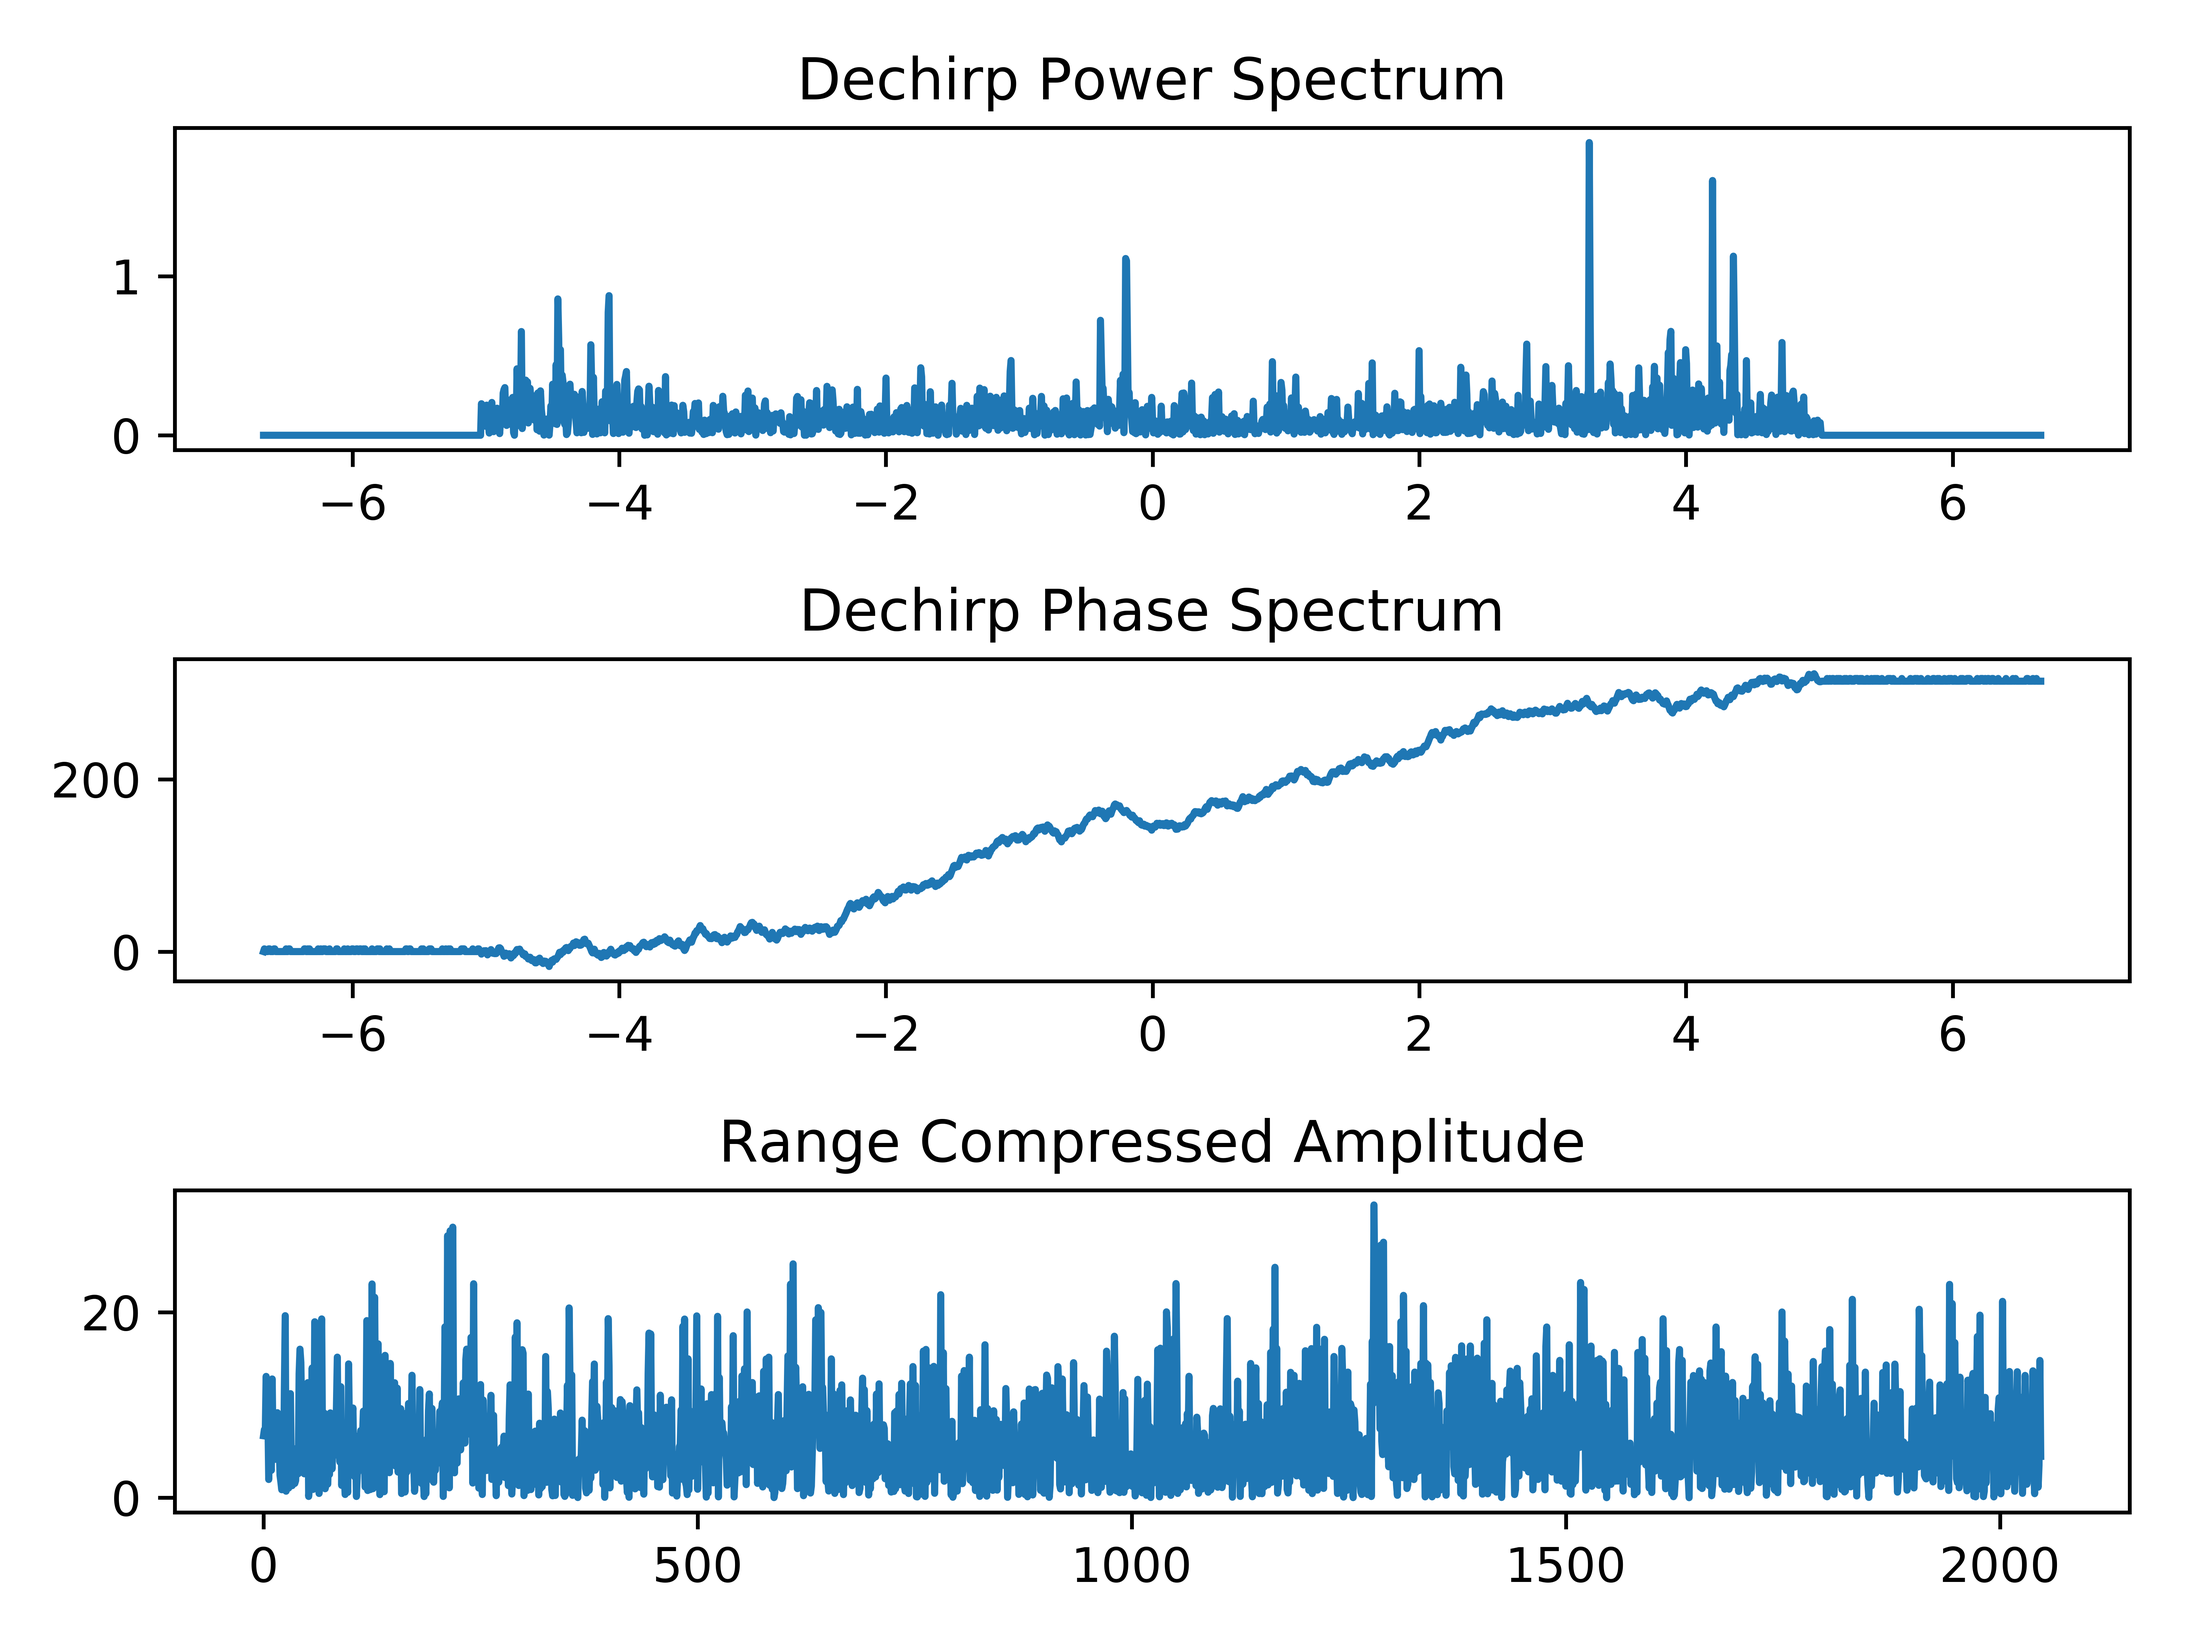
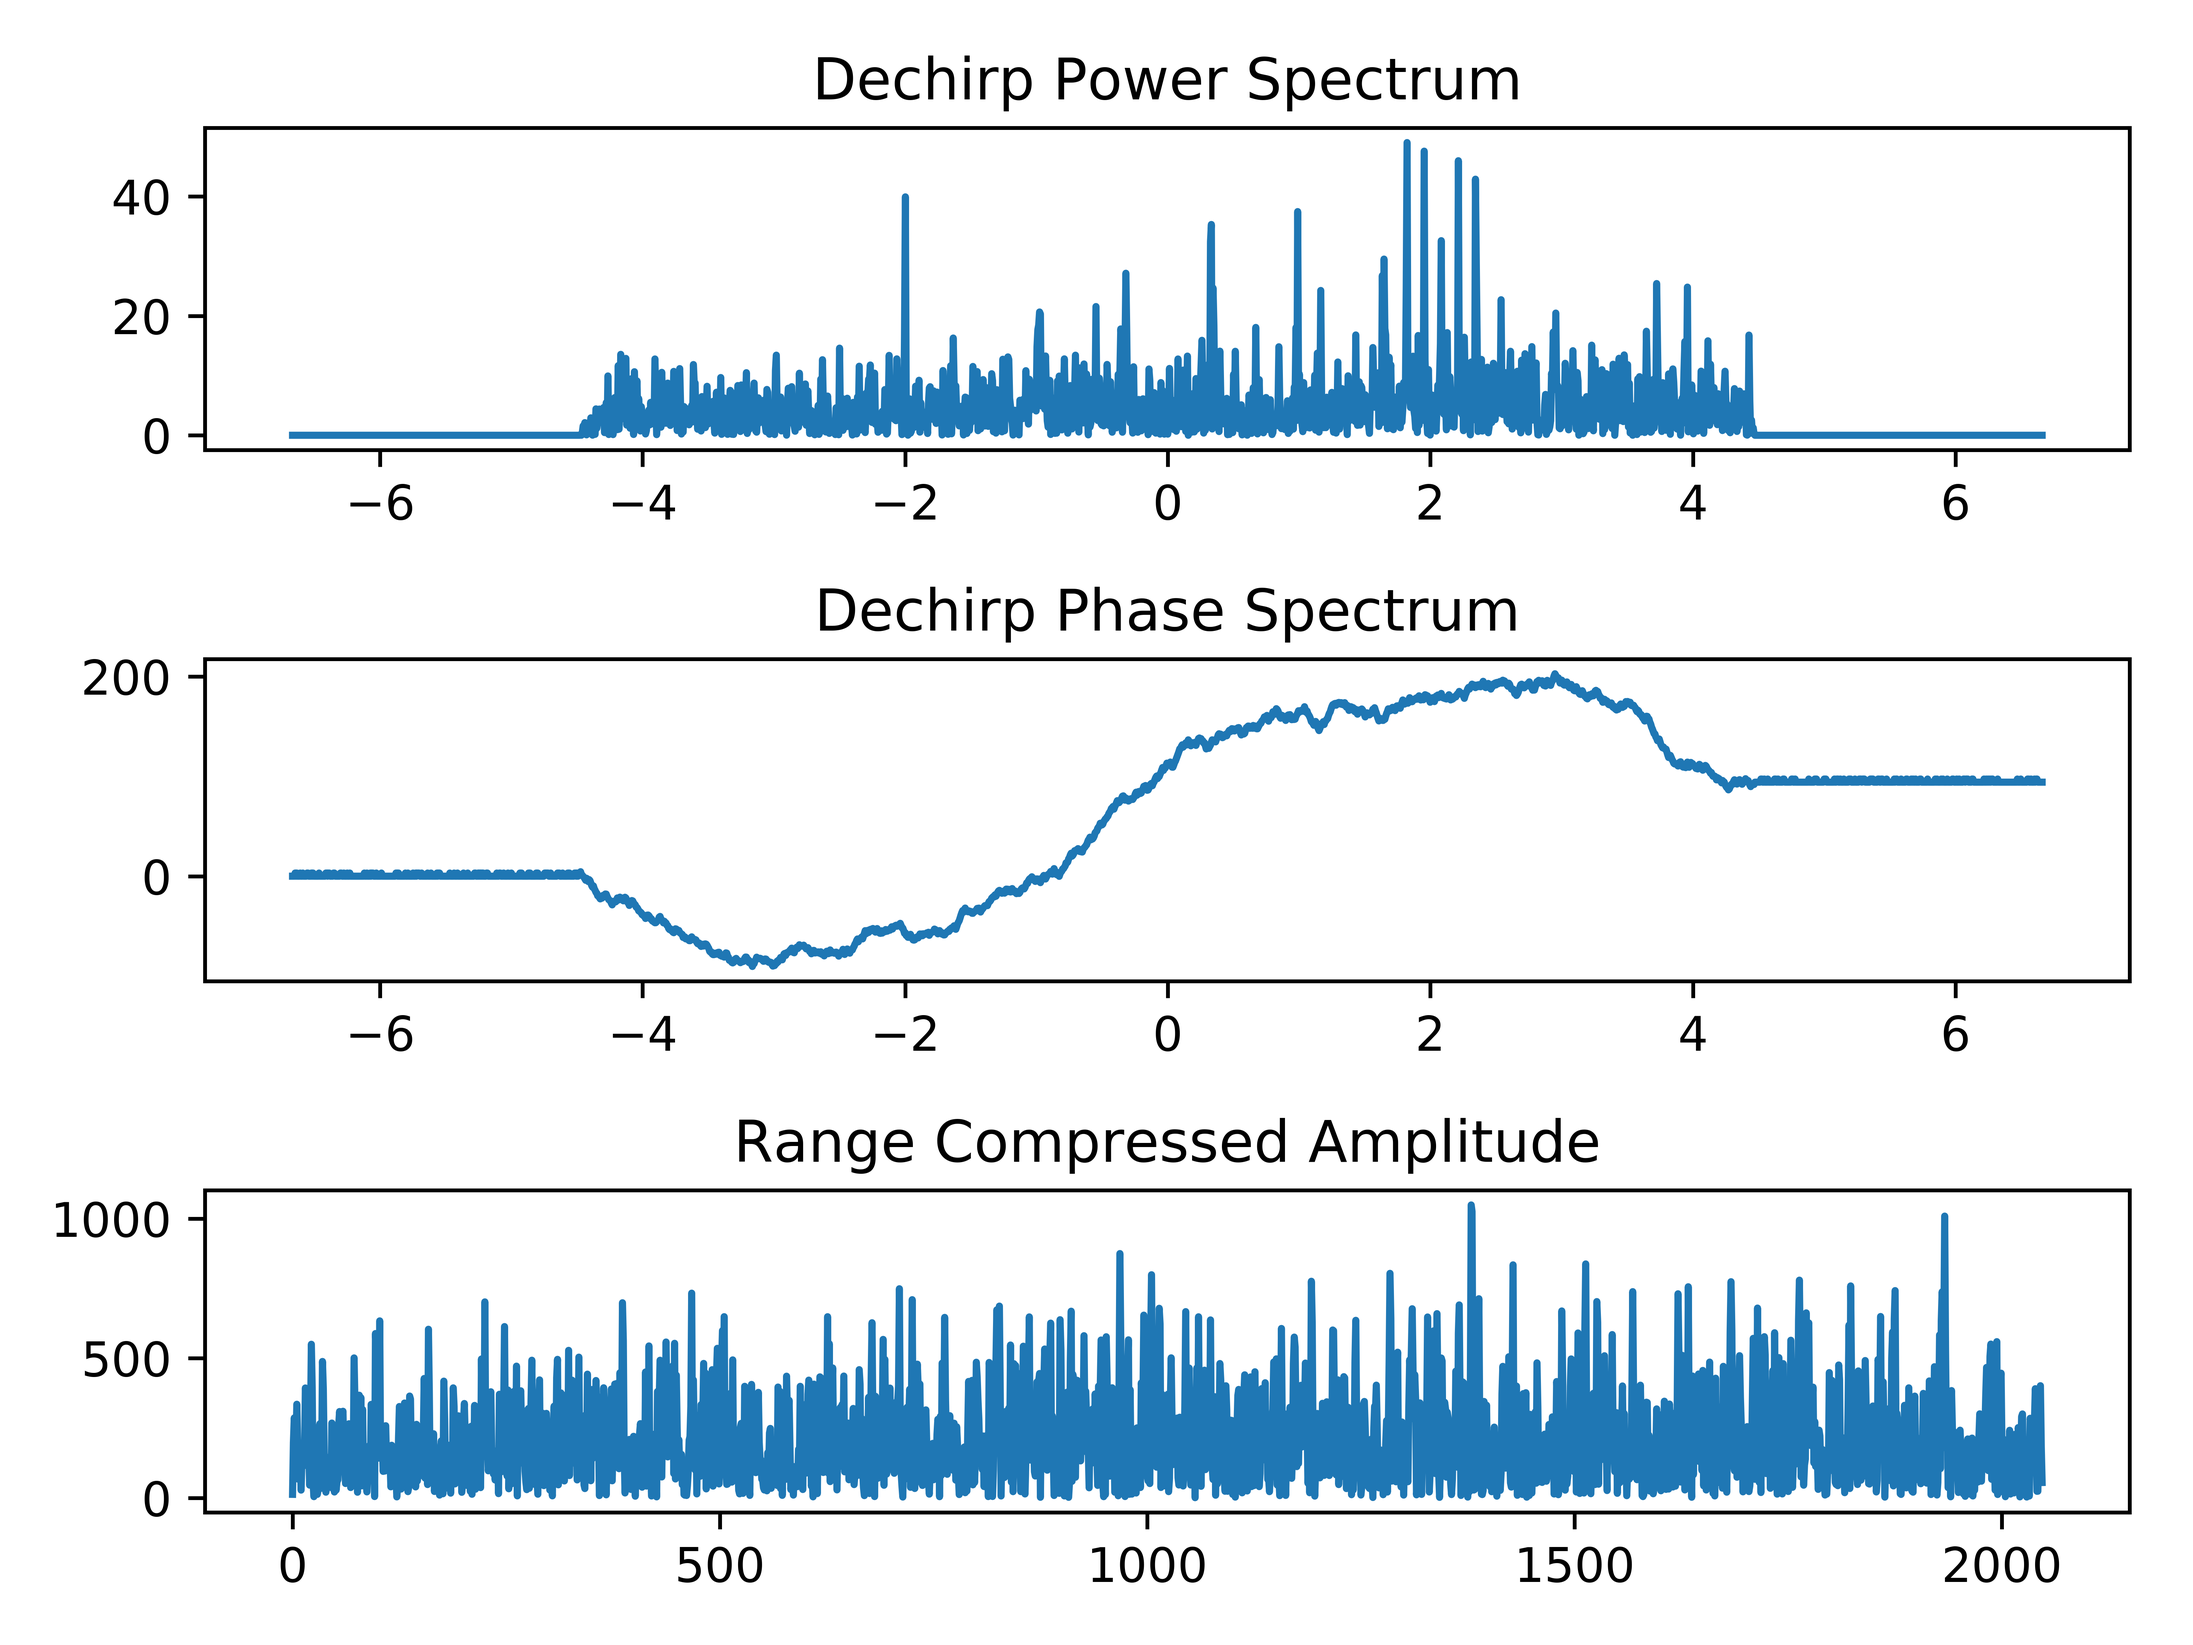
trying to get ideal chirp to work

diff --git a/code/readChirp.py b/code/readChirp.py
@@ -6,47 +6,84 @@ import os, sys
 import matplotlib.pyplot as plt
 
 
-def detChirpFiles(TxTemp, RxTemp):
+def detChirpFiles(TxTemp, RxTemp, ideal=False):
   """
   This function determines the appropriate calibrated chirp file to use
   for range compression and returns the decoded calibrated chirp.
   This is solely based off the temperatures of the TxTemp and RxTemp.
   """
-  calibRoot = '../calib/'
-  calibName = 'reference_chirp'
-  ext = '.dat'
-  TxCalNames = ['m20tx', 'm15tx', 'm10tx', 'm05tx',
-                'p00tx', 'p20tx', 'p40tx', 'p60tx']
-  RxCalNames = ['m20rx', 'p00rx', 'p20rx', 'p40rx',
-                'p60rx']
-  #
-  # Define vectors for Tx and Rx temps
-  #
-  Tx = [-20, -15, -10, -5, 0, 20, 40, 60]
-  Rx = [-20, 0, 20, 40, 60]
-  calibChirpFiles = []
-  TxDiff = []
-  RxDiff = []
-  #
-  # Find distance
-  #
-  TxDiff[:] = [abs(x - TxTemp) for x in Tx]
-  RxDiff[:] = [abs(x - RxTemp) for x in Rx]
-  #
-  # Find the indices of the closest Tx and Rx value
-  #
-  calibTx = TxCalNames[TxDiff.index(min(TxDiff))]
-  calibRx = RxCalNames[RxDiff.index(min(RxDiff))]
-  #
-  # Construct File name
-  #
-  calChirpFile = calibRoot + calibName + '_' + \
-                 TxCalNames[TxDiff.index(min(TxDiff))] + '_' + \
-                 RxCalNames[RxDiff.index(min(RxDiff))] + ext
-  if os.path.isfile(calChirpFile):
-    calChirp = np.fromfile(calChirpFile, dtype='<f')
-    calChirp = calChirp[:2048] + 1j*calChirp[2048:]
-    return calChirp
+  if not ideal:
+    calibRoot = '../calib/'
+    calibName = 'reference_chirp'
+    ext = '.dat'
+    TxCalNames = ['m20tx', 'm15tx', 'm10tx', 'm05tx',
+                  'p00tx', 'p20tx', 'p40tx', 'p60tx']
+    RxCalNames = ['m20rx', 'p00rx', 'p20rx', 'p40rx',
+                  'p60rx']
+    #
+    # Define vectors for Tx and Rx temps
+    #
+    Tx = [-20, -15, -10, -5, 0, 20, 40, 60]
+    Rx = [-20, 0, 20, 40, 60]
+    calibChirpFiles = []
+    TxDiff = []
+    RxDiff = []
+    #
+    # Find distance
+    #
+    TxDiff[:] = [abs(x - TxTemp) for x in Tx]
+    RxDiff[:] = [abs(x - RxTemp) for x in Rx]
+    #
+    # Find the indices of the closest Tx and Rx value
+    #
+    calibTx = TxCalNames[TxDiff.index(min(TxDiff))]
+    calibRx = RxCalNames[RxDiff.index(min(RxDiff))]
+    #
+    # Construct File name
+    #
+    calChirpFile = calibRoot + calibName + '_' + \
+                   TxCalNames[TxDiff.index(min(TxDiff))] + '_' + \
+                   RxCalNames[RxDiff.index(min(RxDiff))] + ext
+    if os.path.isfile(calChirpFile):
+      calChirp = np.fromfile(calChirpFile, dtype='<f')
+      calChirp = calChirp[:2048] + 1j*calChirp[2048:]
+      return calChirp
+    else:
+      print('Calibrated chirp file not found...exiting.')
+      sys.exit()
   else:
-    print('Calibrated chirp file not found...exiting.')
-    sys.exit()
+    #
+    # Use ideal chirp from UPB
+    #
+    delay_res = 135.00e-6 / 3600.000
+    sharad_ipp = 1.0 / 700.28
+    fhi = 25.00e6
+    flo = 15.00e6
+    plen = 85.05e-6
+    nsamp = plen / delay_res
+    fslope = (flo - fhi) / plen
+    ctime = np.arange(0,nsamp) * delay_res
+    arg = 2.0*np.pi*ctime*(fhi+fslope*ctime/2.0)
+    ideal_chirp = np.zeros(3600, complex)
+    ideal_chirp[:len(arg)] = np.sin(arg)
+    ideal_chirp_FFT = np.fft.fft(ideal_chirp)
+    #
+    # Load nal_filter.dat
+    #
+    cal_filter = np.fromfile('../calib/cal_filter.dat', '<f')
+    cal_filter = cal_filter[:1800] + 1j*cal_filter[1800:]
+    cal_filter = np.roll(cal_filter, 900)
+    calChirp = np.zeros(3600, complex)
+    calChirp[1800:] = cal_filter
+    calChirp = calChirp*ideal_chirp_FFT
+    calChirp = calChirp[1552:]
+    #
+    # Now center spectra in 2048 length window
+    #
+    id1 = np.where(calChirp == 0)
+    ls = len(np.where(id1[0] < 1024)[0]) 
+    rs = len(np.where(id1[0] > 1024)[0]) 
+    tot = ls + rs
+    roll = int(tot/2 - ls)
+    calChirp = np.roll(calChirp, roll)
+    return calChirp

diff --git a/code/checkChirp.py b/code/checkChirp.py
@@ -1,0 +1,58 @@
+import numpy as np
+import matplotlib.pyplot as plt
+
+
+def main():
+  delay_res = 135.00e-6 / 3600.000
+  sharad_ipp = 1.0 / 700.28
+  fhi = 25.00e6
+  flo = 15.00e6
+  plen = 85.05e-6
+  nsamp = plen / delay_res
+  fslope = (flo - fhi) / plen
+  ctime = np.arange(0,nsamp) * delay_res
+  arg = 2.0*np.pi*ctime*(fhi+fslope*ctime/2.0)
+  ideal_chirp = np.zeros(3600, complex)
+  ideal_chirp[:len(arg)] = np.sin(arg)
+  ideal_chirp_FFT = np.fft.fft(ideal_chirp)
+  #
+  # Load nal_filter.dat
+  #
+  cal_filter = np.fromfile('../calib/cal_filter.dat', '<f')
+  cal_filter = cal_filter[:1800] + 1j*cal_filter[1800:]
+  cal_filter = np.roll(cal_filter, 900)
+  dechirp = np.zeros(3600, complex)
+  dechirp[1800:] = cal_filter
+  dechirp = np.conj(dechirp*ideal_chirp_FFT)
+  #
+  # Load a reference chirp example
+  #
+  ref_chirp = np.fromfile('../calib/reference_chirp_p00tx_p00rx.dat', '<f')
+  #ref_chirp = np.conj(ref_chirp[:2048] + 1j*ref_chirp[2048:])
+  ref_chirp = (ref_chirp[:2048] + 1j*ref_chirp[2048:])
+  #
+  # Let's plot
+  #
+  plt.subplot(3,2,1)
+  plt.plot(np.real(np.fft.ifft(np.fft.ifftshift(dechirp))))
+  plt.subplot(3,2,3)
+  plt.plot(np.power(np.abs(dechirp[1800:]),2))
+  plt.subplot(3,2,5)
+  plt.plot(np.unwrap(np.angle(dechirp[1800:])))
+  #
+  # Let's plot
+  #
+  plt.subplot(3,2,2)
+  plt.plot((np.real(np.fft.ifft(np.fft.ifftshift(ref_chirp)))))
+  plt.subplot(3,2,4)
+  plt.plot(np.power(np.abs(ref_chirp),2))
+  plt.subplot(3,2,6)
+  plt.plot(np.unwrap(np.angle(ref_chirp)))
+  plt.show()
+  #
+  #
+  #
+  return
+
+if __name__ == '__main__':
+  main()

diff --git a/code/processEDR.py b/code/processEDR.py
@@ -108,11 +108,11 @@ def main(runName, auxname, lblname, edrname, presum_proc=None, beta=5, fil_type=
       #
       # Determine calibrated chirp
       #
-      calChirp = detChirpFiles(AuxDF['TX_TEMP'][_i], AuxDF['RX_TEMP'][_i])
+      calChirp = detChirpFiles(AuxDF['TX_TEMP'][_i], AuxDF['RX_TEMP'][_i], ideal=True)
       #
       # Perform chirp compression
       #
-      presum_rec[:,_k] = rangeCompression(sci, calChirp, window, fil_type="Match", diag=False)
+      presum_rec[:,_k] = rangeCompression(sci, calChirp, window, fil_type="Match", diag=True)
       #
       # Perform on-ground calibration
       #  This step will have to wait. Apparently the angles given in the Auxilliary file are
@@ -150,7 +150,7 @@ if __name__ == '__main__':
   verb = True
   win_type = 14                                         # 0 (uniform), 2 (bartlett), 3 (Hann), 4 (Hamming), 5 (Blackman), 6 (Kaiser)
   beta = 0
-  td = 7                                               # Which test set
+  td = 4                                               # Which test set
   fil_type = 'Match'                                    # Chirp compression method
   presum_proc = 4
   #

diff --git a/code/SARProcessing.py b/code/SARProcessing.py
@@ -41,7 +41,8 @@ def rangeCompression(sci, calChirp, window, fil_type='Match', diag=False):
   # Perform Chirp compression
   #
   if fil_type == 'Match':
-    dechirp = (ecSpec_cut * window) * calChirp		# For some reason this works without the conjugate 
+    dechirp = (ecSpec_cut * window) * (calChirp)
+    #dechirp = (ecSpec_cut * window) * np.conj(calChirp)
   elif fil_type == "Inverse":
     sys.exit()
   #
